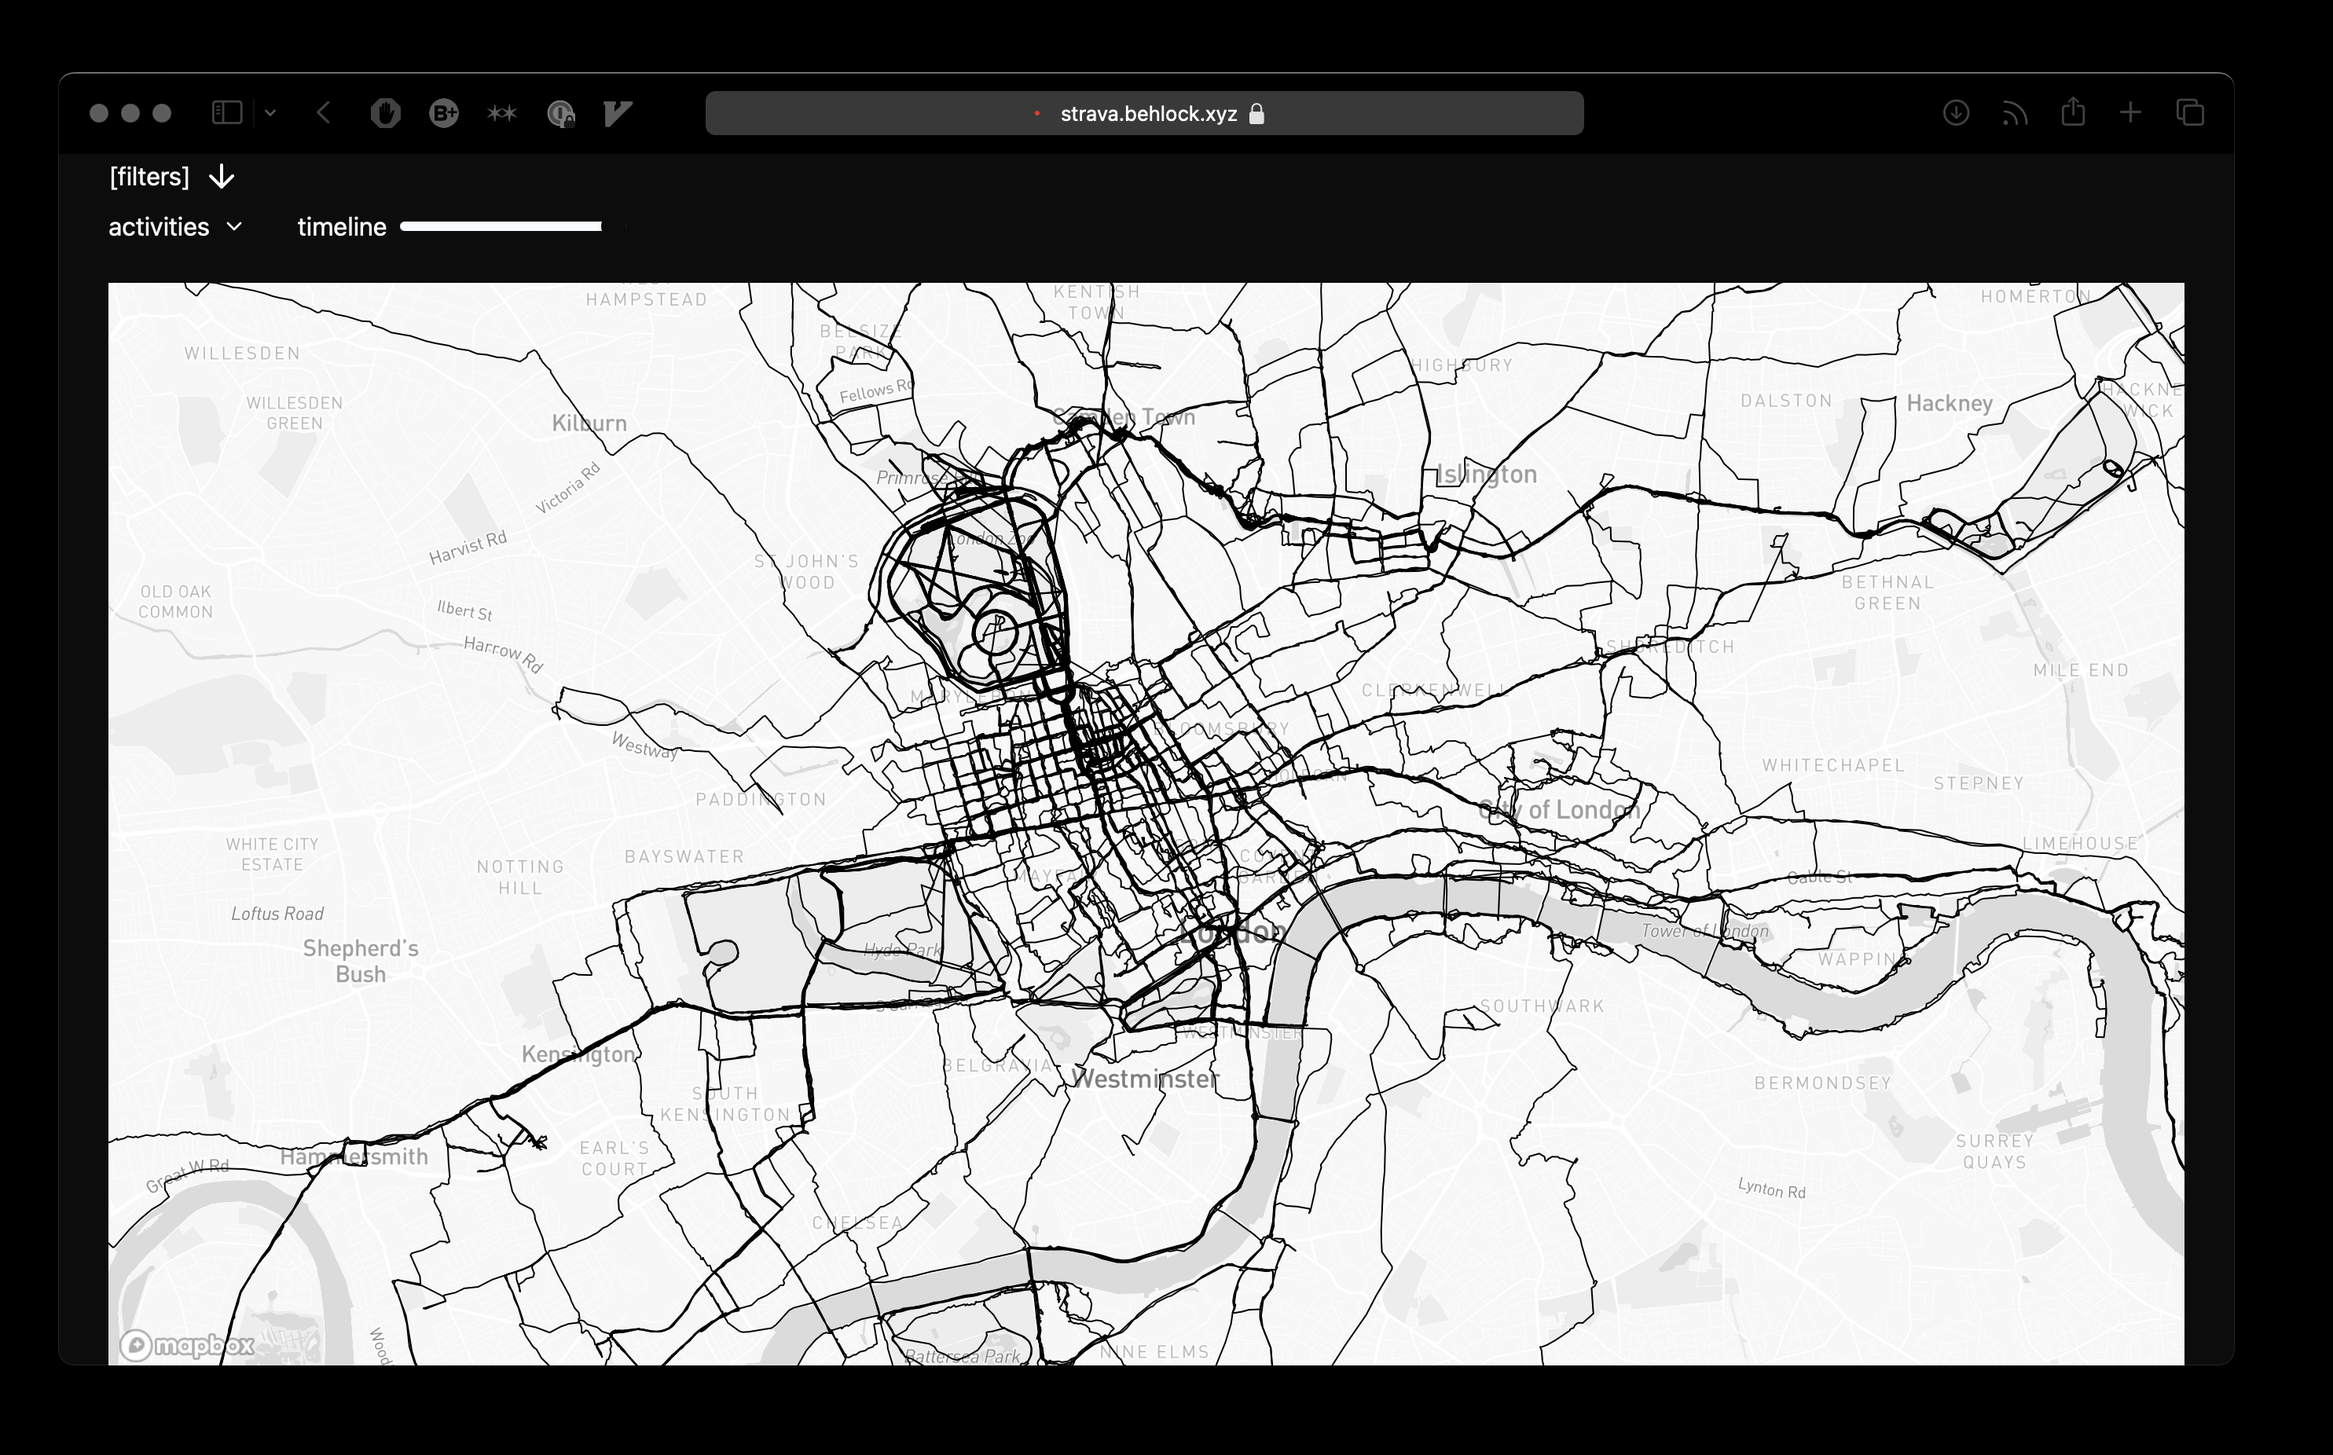
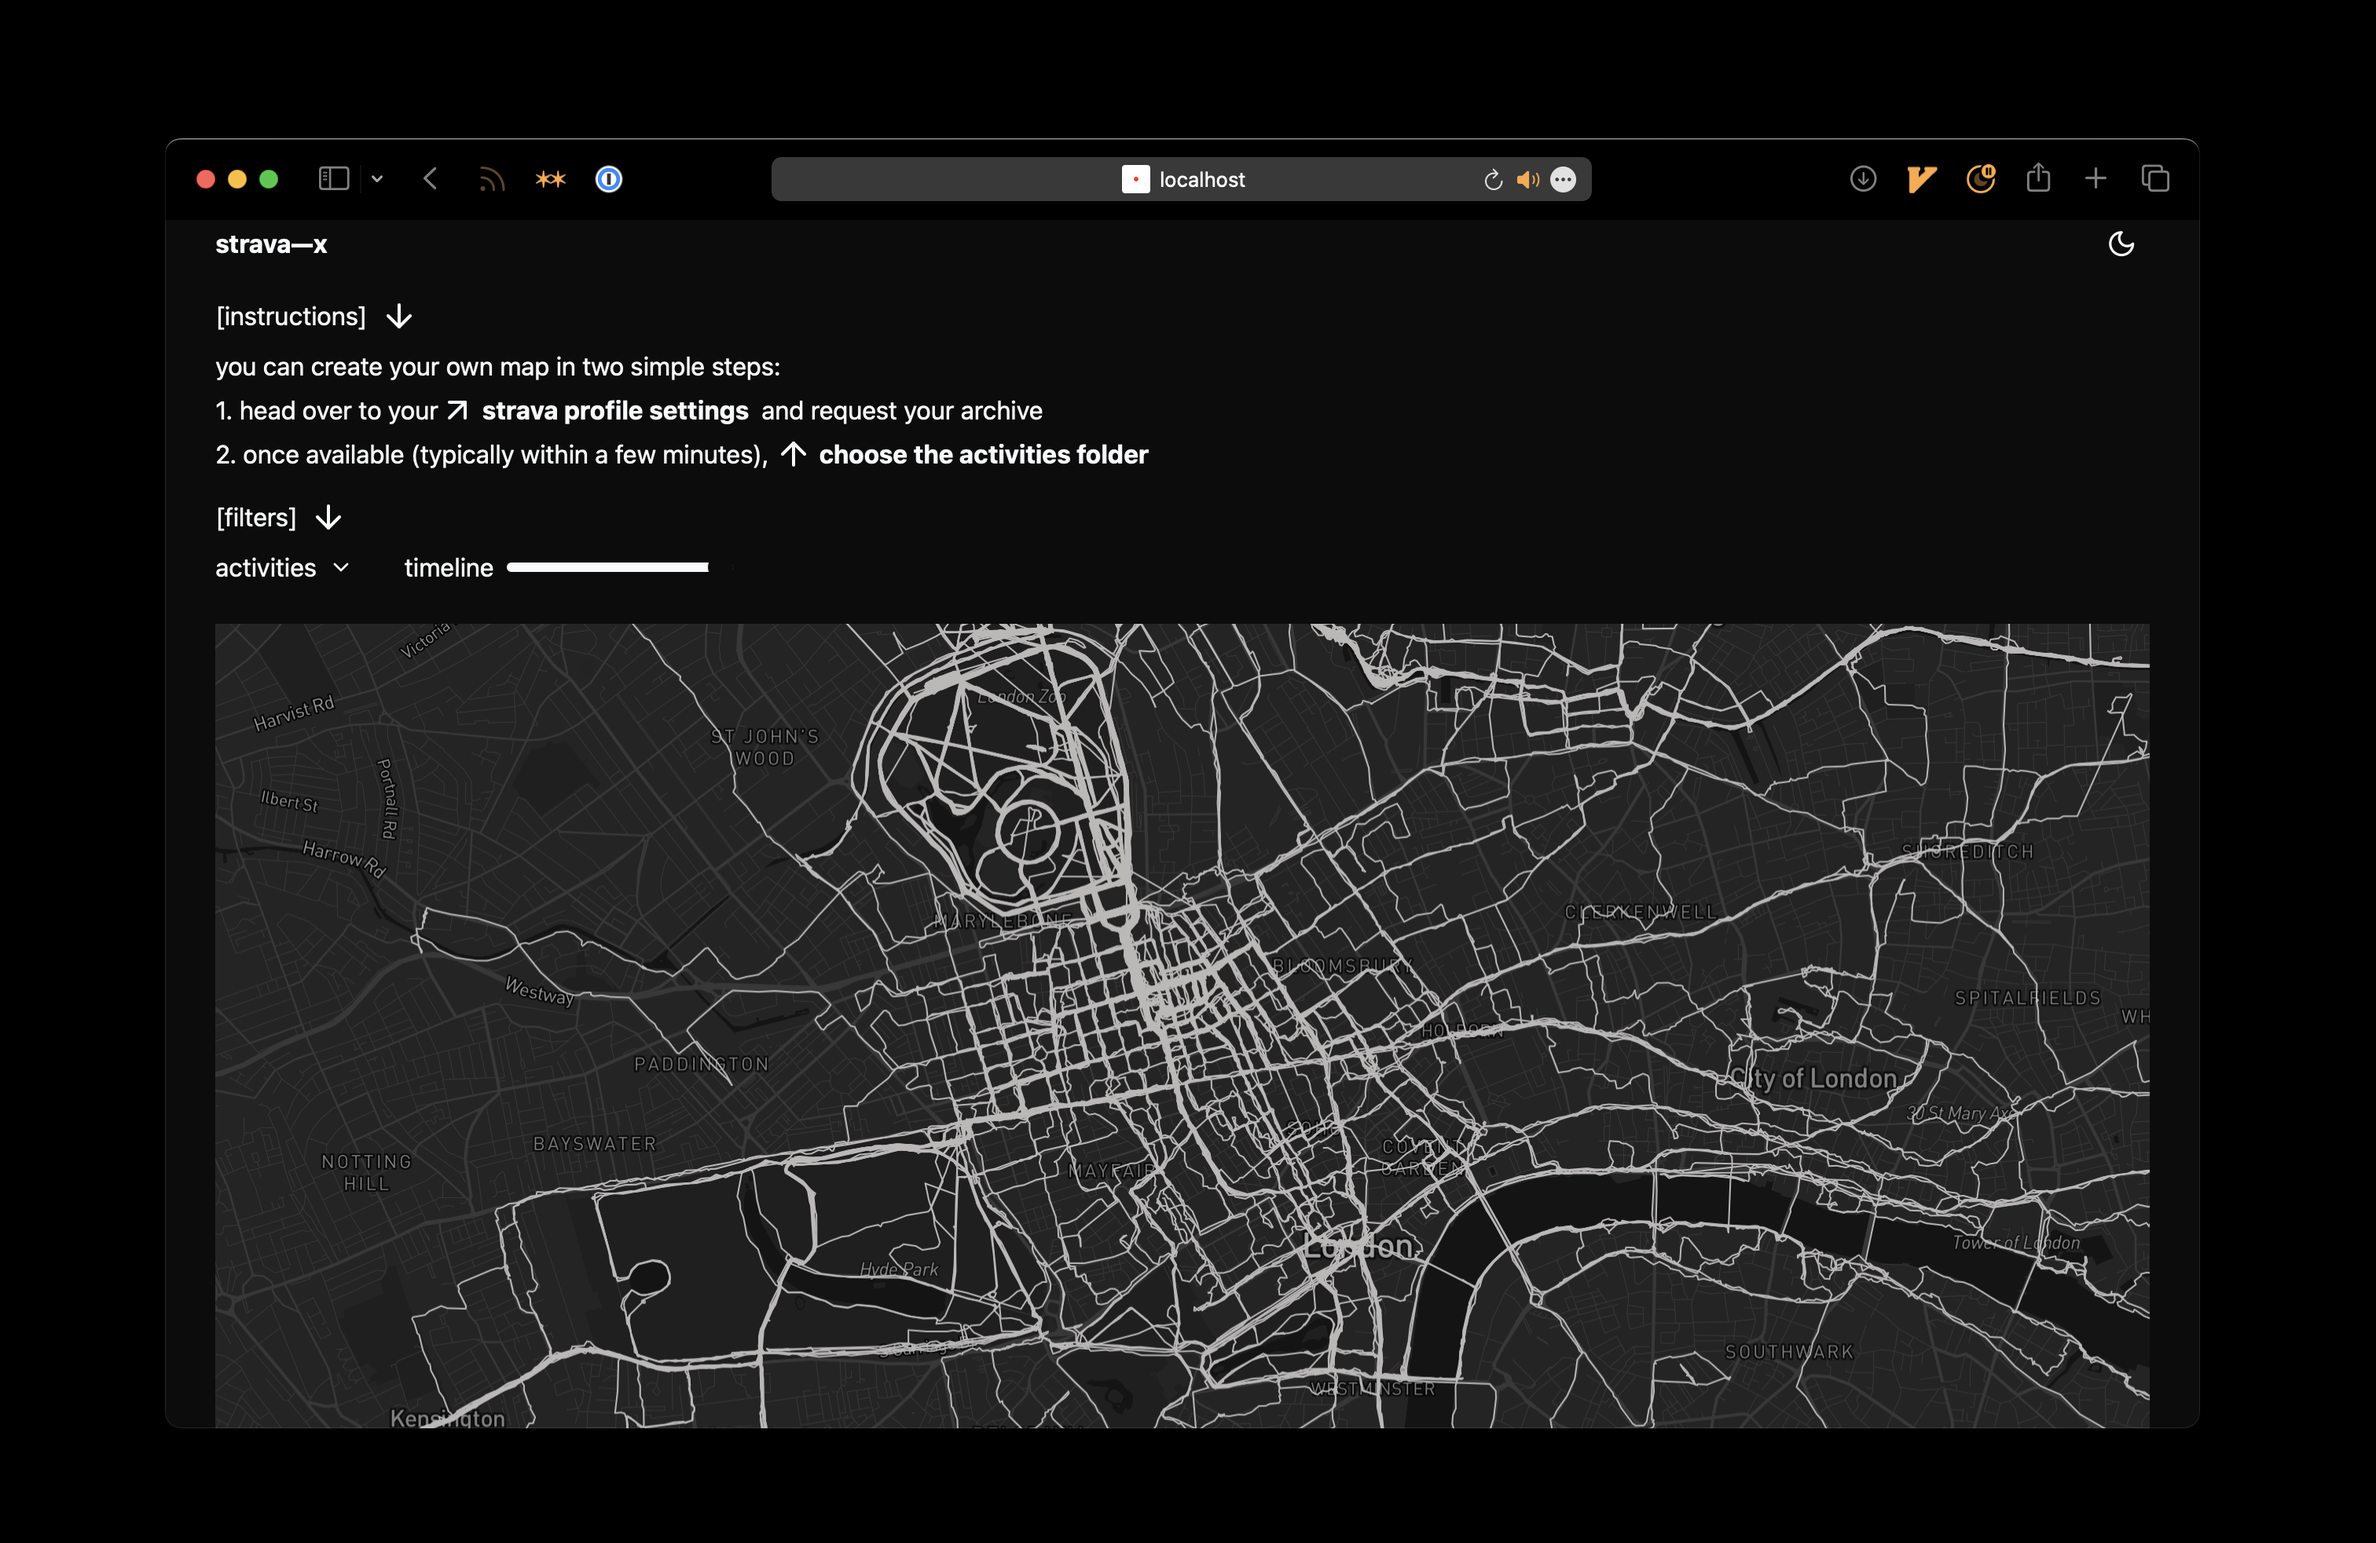
Adjust colors + readme

diff --git a/src/components/instructions/instructions.tsx b/src/components/instructions/instructions.tsx
@@ -1,5 +1,5 @@
 import React from 'react'
-import { ArrowDown, ArrowRight, ArrowUpRight } from 'lucide-react'
+import { ArrowDown, ArrowRight, ArrowUpRight, ArrowUp } from 'lucide-react'
 
 import { Input } from '@/components/ui/input'
 import { Label } from '@/components/ui/label'
@@ -24,10 +24,11 @@ const Instructions = ({ onFilesSelected, isOpen, onOpenChange }) => {
         <div className="mt-2 flex flex-col ">
           <div className="flex flex-col space-y-1 ">
             <span>you can create your own map in two simple steps:</span>
-            <span>
-              1. head over to your{' '}
+            <div className="flex w-fit flex-row">
+              1. head over to your
+              <ArrowUpRight className="mr-1" />
               <a
-                className="text-blue-500"
+                className="mr-2 font-bold"
                 href="https://www.strava.com/athlete/delete_your_account"
                 target="_blank"
                 rel="noreferrer"
@@ -35,13 +36,13 @@ const Instructions = ({ onFilesSelected, isOpen, onOpenChange }) => {
                 strava profile settings
               </a>{' '}
               and request your archive
-            </span>
+            </div>
             <div className="flex flex-row space-x-1">
               <span>2. once available (typically within a few minutes), </span>
               <div className="flex w-fit flex-none cursor-pointer items-center justify-end">
                 <Label htmlFor="gpx">
                   <div className="flex items-center justify-center align-middle">
-                    <ArrowUpRight className="mr-1" />
+                    <ArrowUp className="mr-1" />
                     <span className="text-base font-bold">choose the activities folder</span>
                   </div>
                 </Label>

diff --git a/src/components/mapbox-heatmap/mapbox-heatmap.tsx b/src/components/mapbox-heatmap/mapbox-heatmap.tsx
@@ -5,8 +5,8 @@ import { config } from '@/lib/config'
 
 const MapboxHeatmap = (data: any) => {
   const { theme } = useTheme()
-  const mapStyle = theme === 'dark' ? config.MAPBOX_MAP_STYLE_DARK : config.MAPBOX_MAP_STYLE_LIGHT
-  const lineColor = theme === 'dark' ? 'black' : 'white'
+  const mapStyle = theme === 'dark' ? config.MAPBOX_MAP_STYLE_LIGHT : config.MAPBOX_MAP_STYLE_DARK
+  const lineColor = theme === 'dark' ? '#BBB8B8' : '#2F2E2E'
 
   return (
     <div>

diff --git a/README.md b/README.md
@@ -2,4 +2,4 @@
 
 ### strava—x
 
-Parse GPX and FIT files that can be obtained from Strava and render the result on a map
+combine all your strava activities on a map
